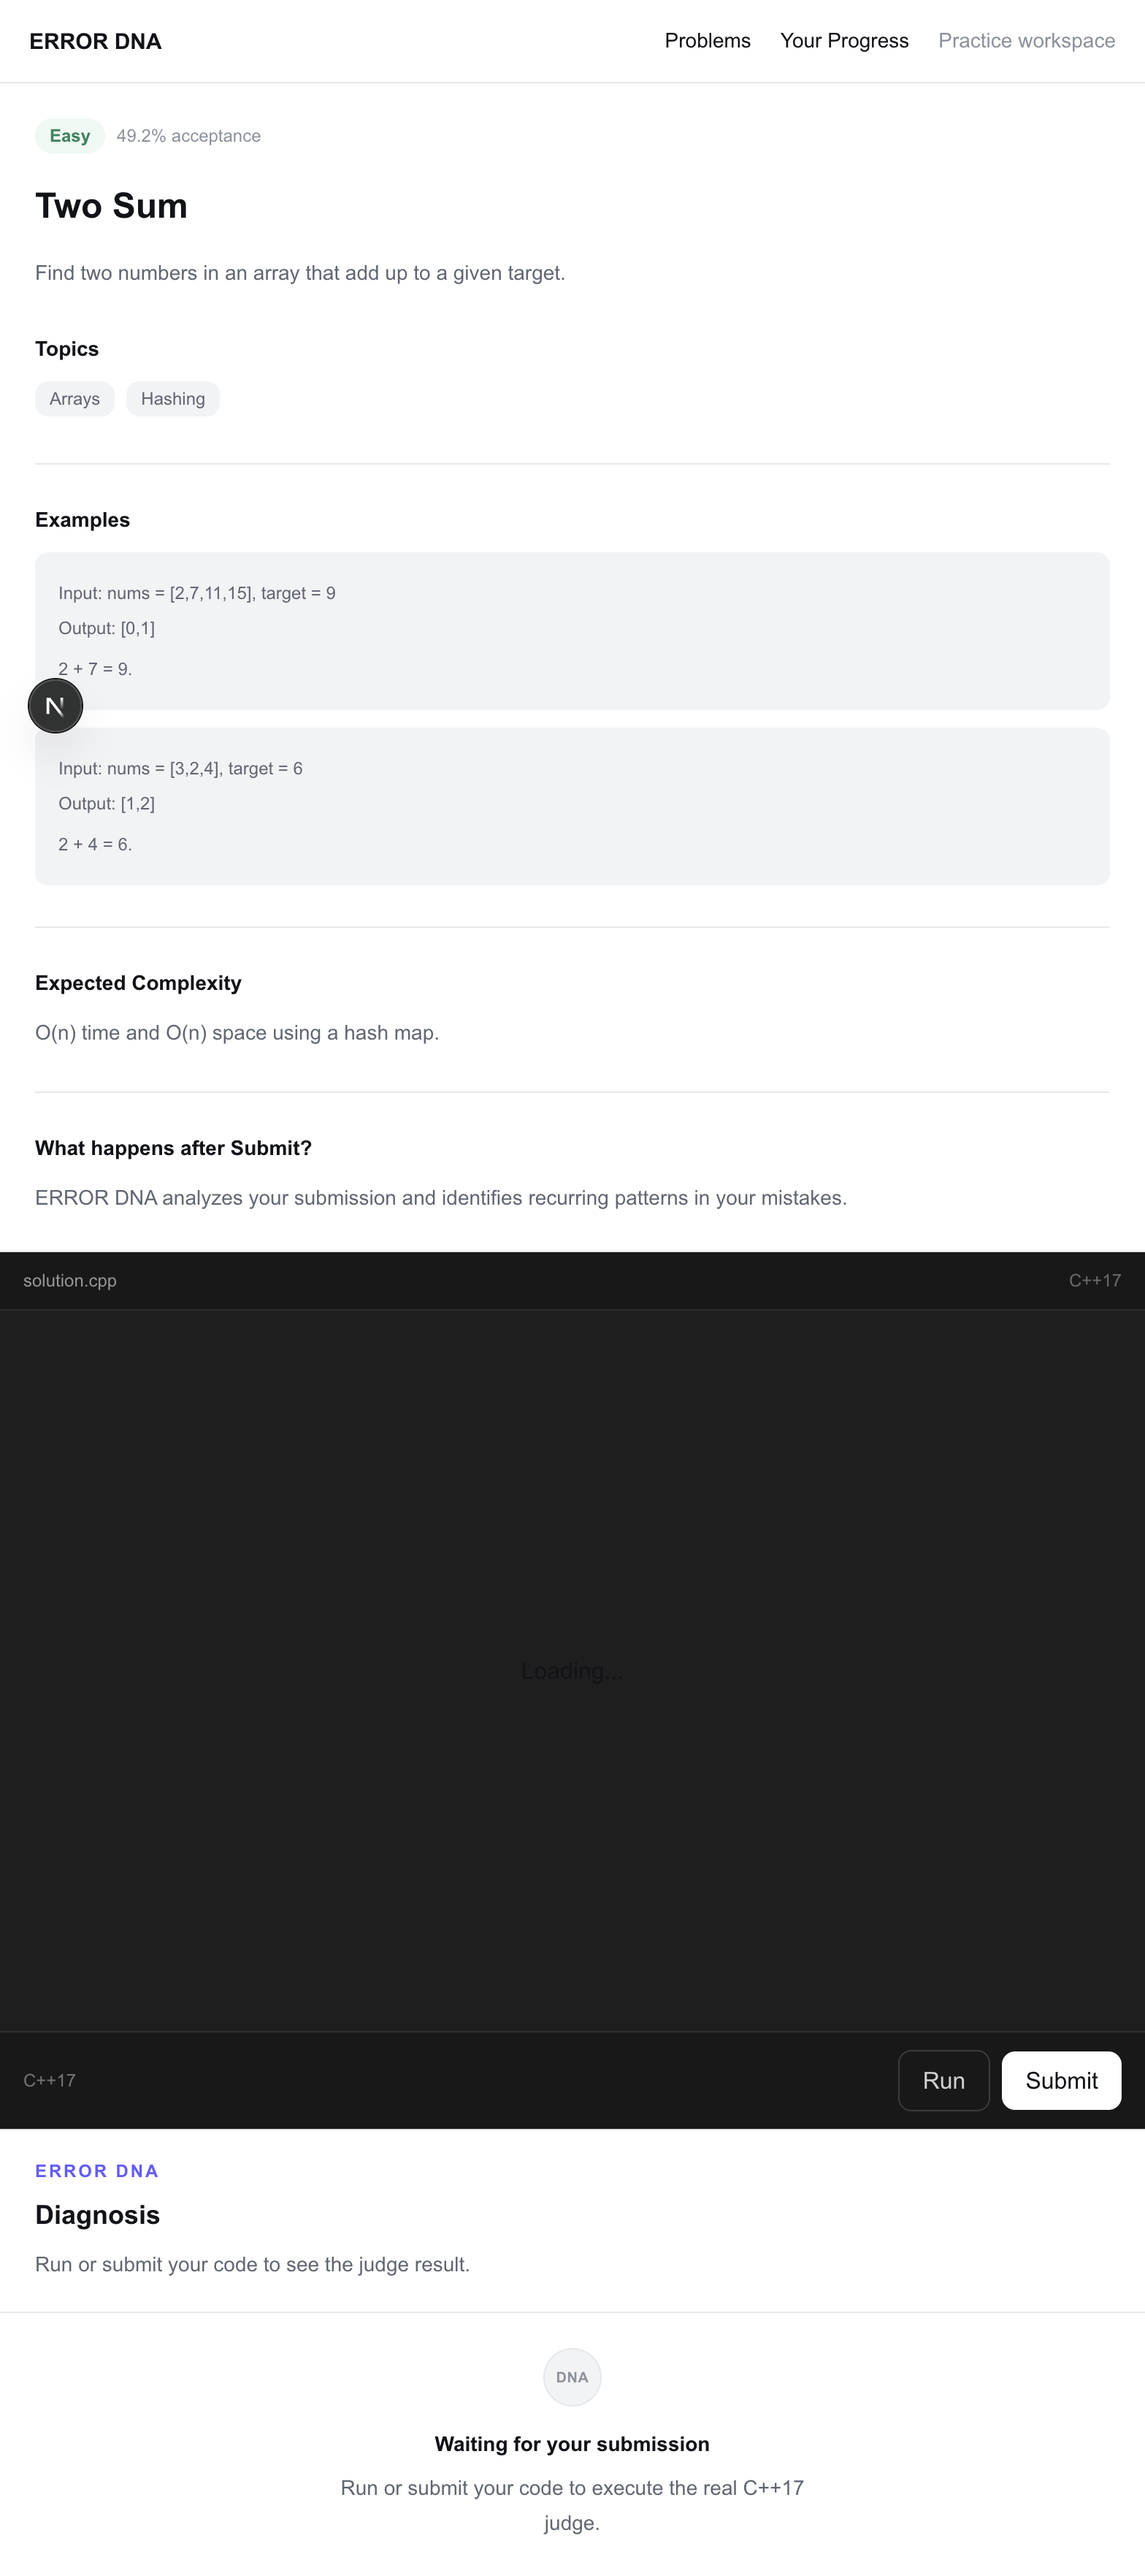
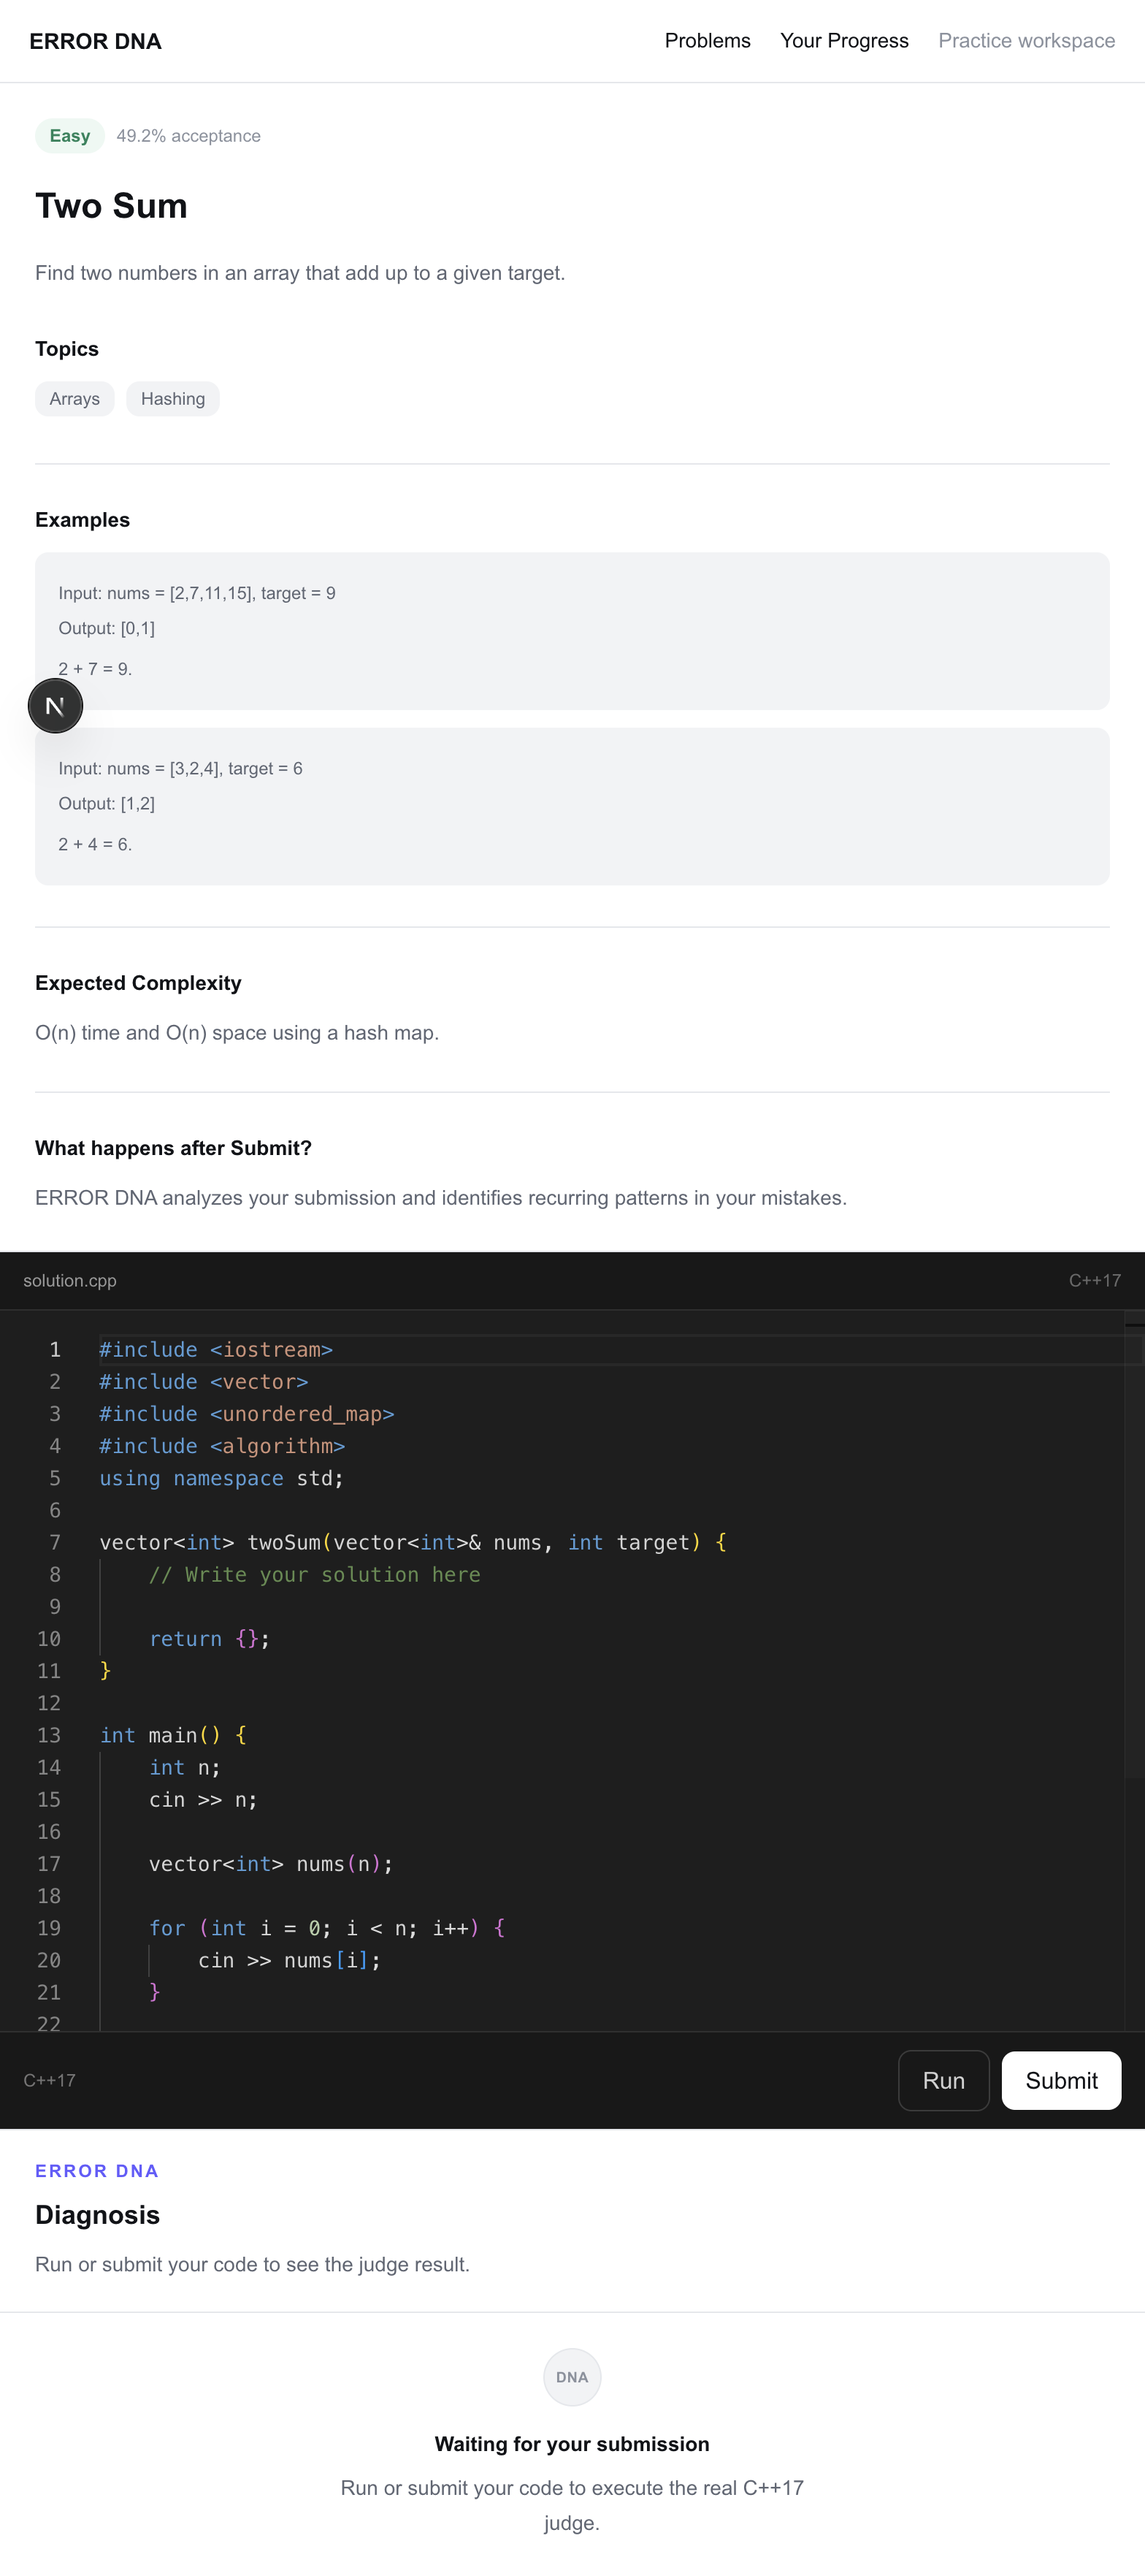
docs: fix architecture fallback and editor screenshot

diff --git a/README.md b/README.md
@@ -61,6 +61,28 @@ flowchart TD
     History --> Dashboard[Progress dashboard<br/>patterns + learning trends]
 ```
 
+Fallback view:
+
+```text
+Student
+      ↓
+Next.js UI / Problem + C++ Editor
+      ↓
+/api/execute
+      ↓
+C++17 Compilation + Execution
+      ↓
+Test Case Evaluation → Execution Results
+      ↓
+/api/analyze → Deterministic Analysis Layer
+      ↓
+Error DNA Diagnosis
+      ↓
+Fingerprint + Explanation + Signals + Confidence + Recommendation
+      ↓
+localStorage Submission History → Dashboard
+```
+
 ## Example Workflow
 
 ```text
